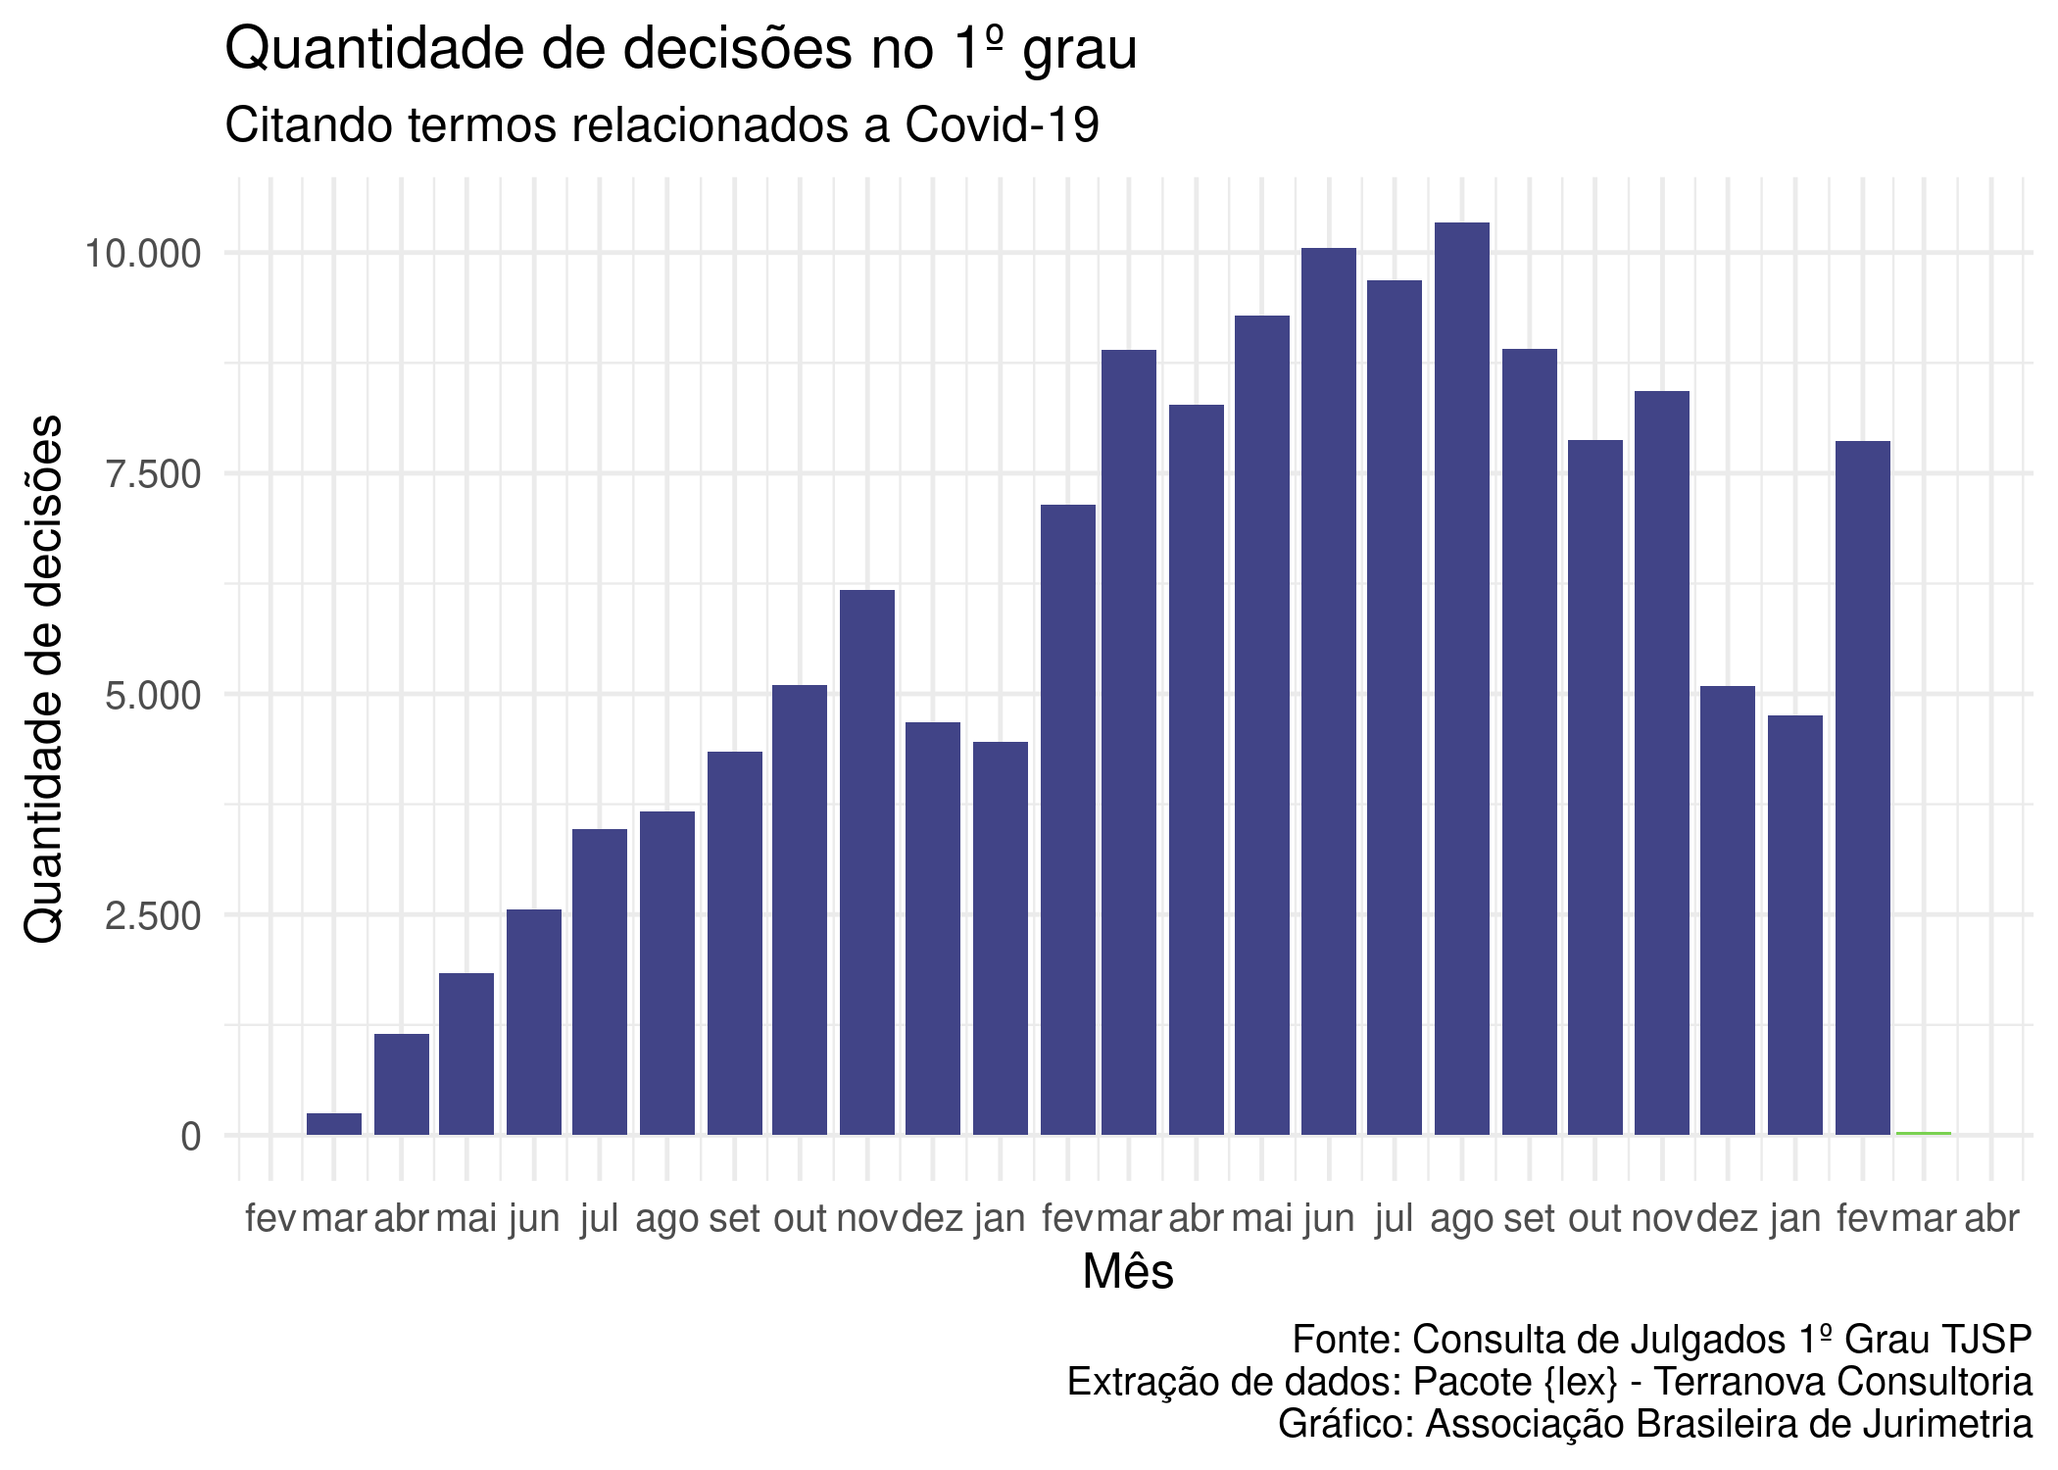
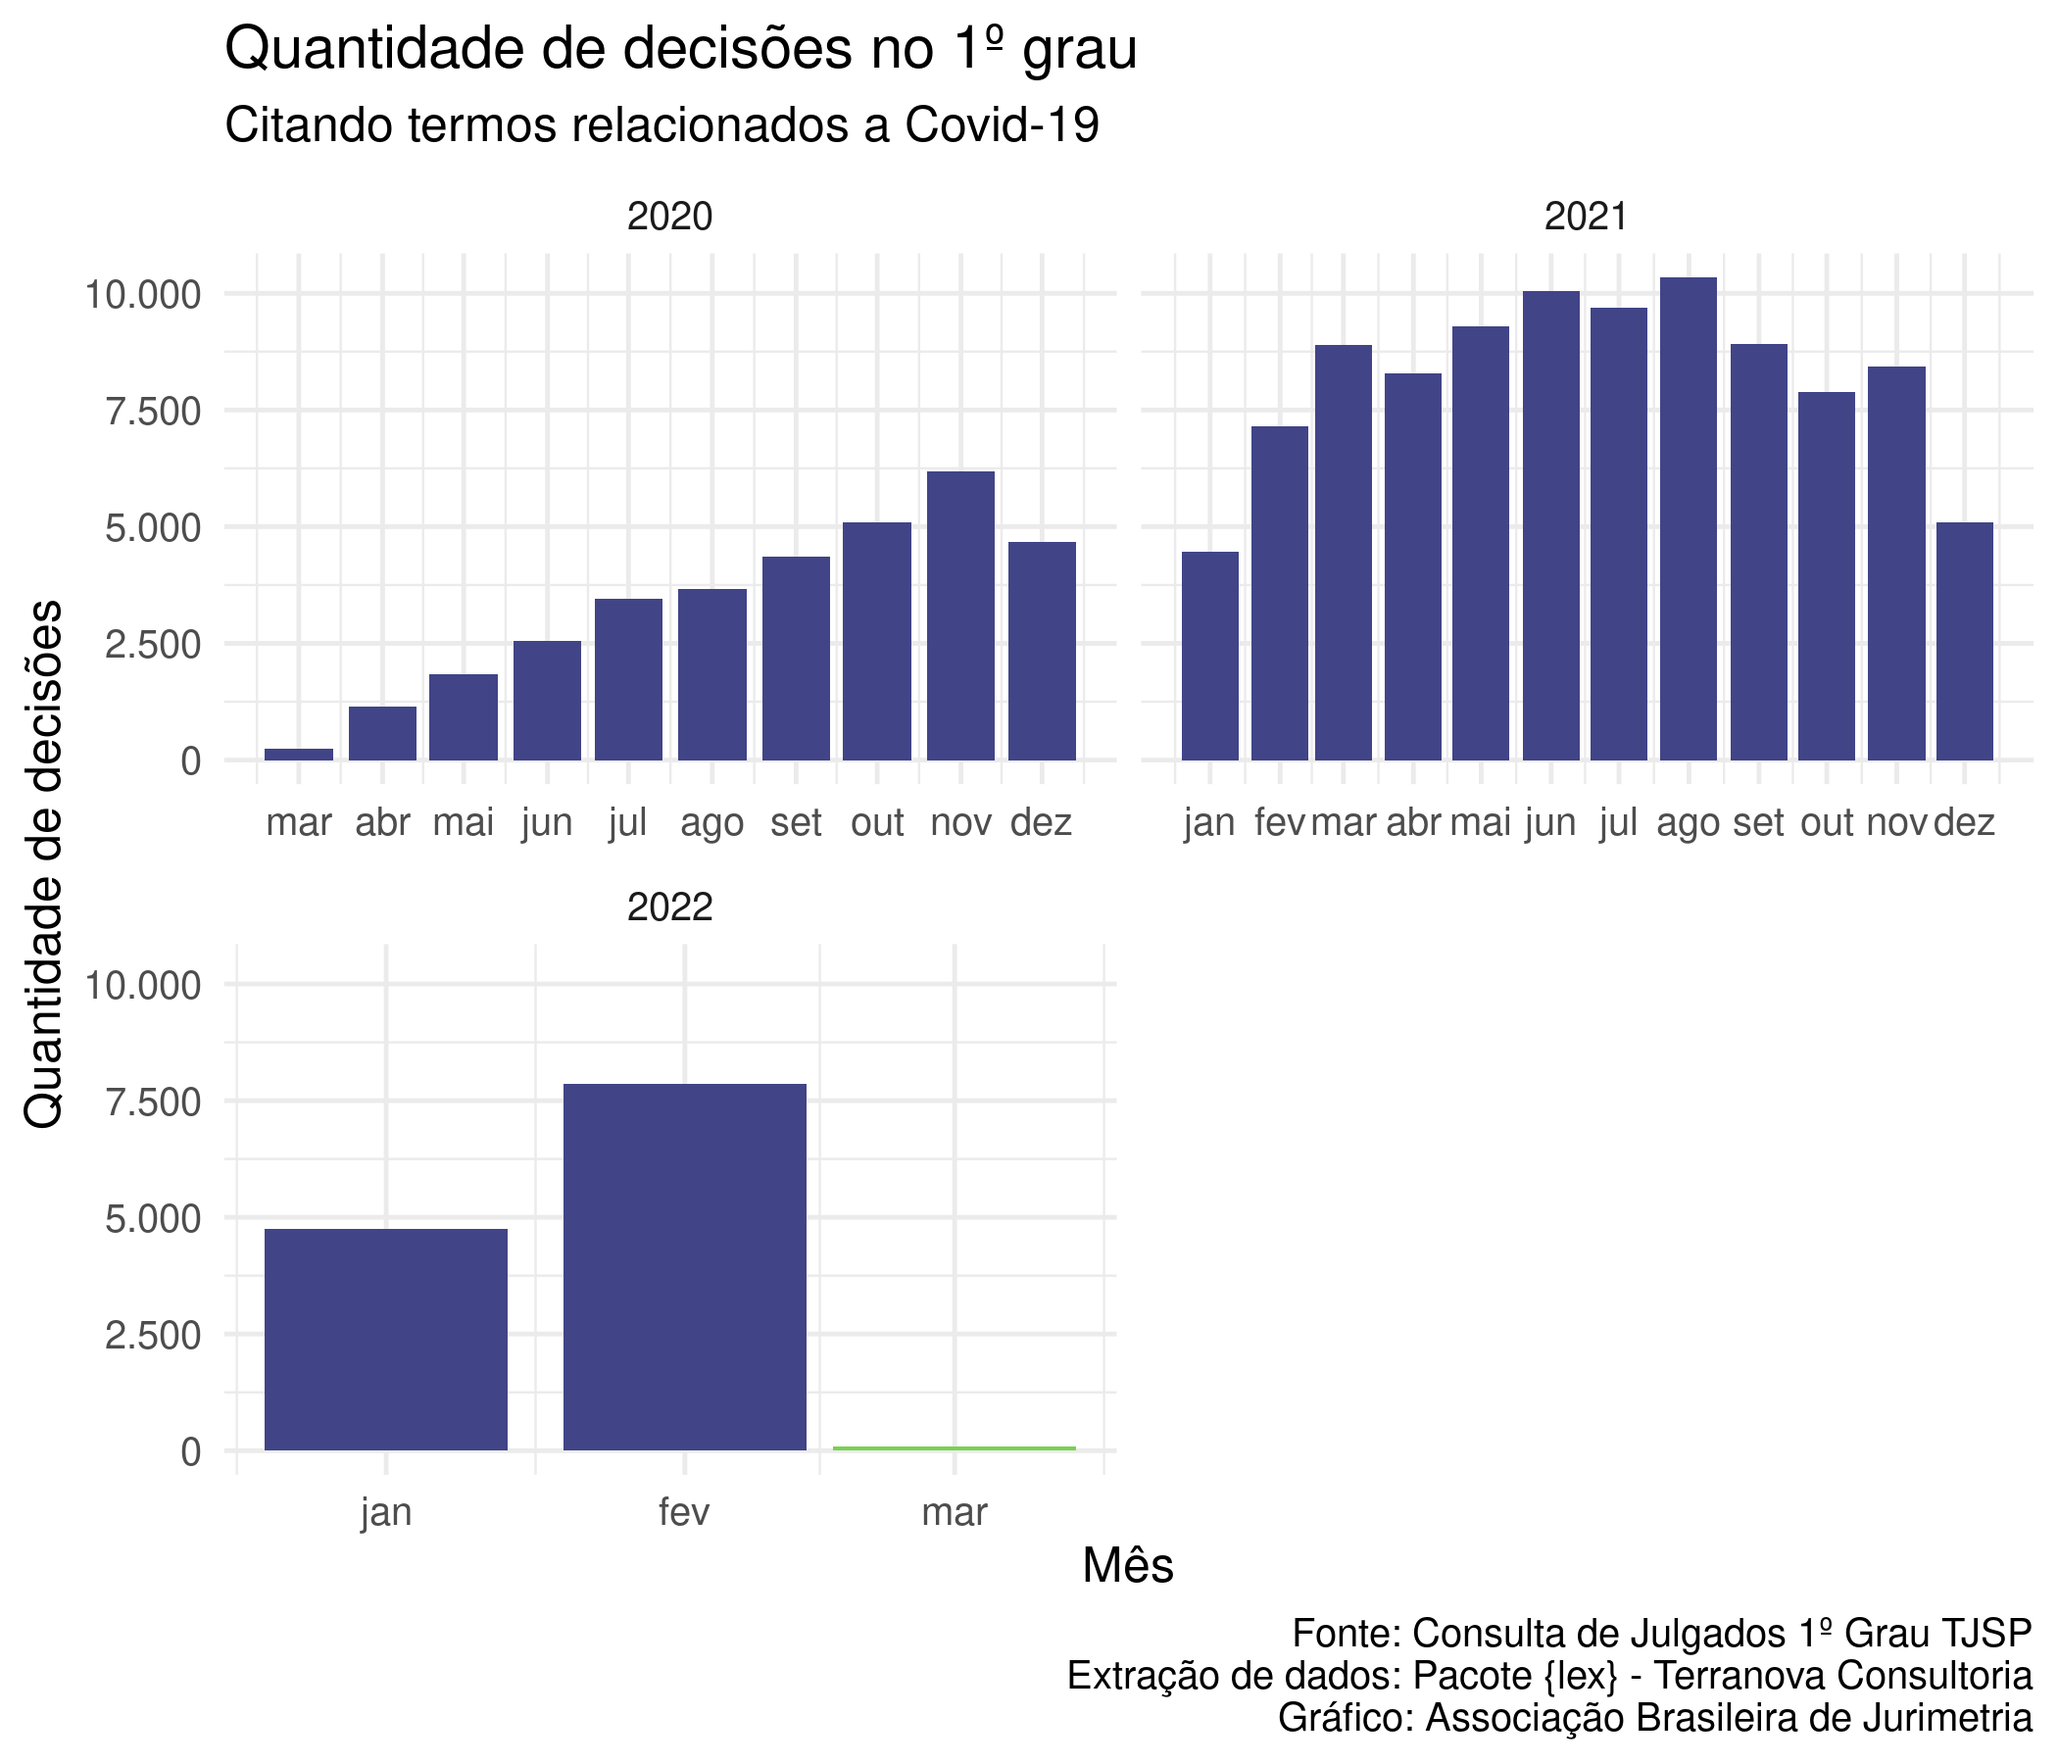
update readme

diff --git a/README.md b/README.md
@@ -20,9 +20,9 @@ library(covidTJSP)
 Os dados podem ser baixados nos links abaixo.
 
 -   [Consulta de Julgados do Primeiro
-    Grau](https://github.com/abjur/covidTJSP/blob/master/inst/extdata/da_cjpg_covid.xlsx?raw=true)
+    Grau](https://storage.googleapis.com/covid-tjsp/da_cjpg_covid.csv)
 -   [Consulta de Processos do Primeiro
-    Grau](https://github.com/abjur/covidTJSP/blob/master/inst/extdata/da_cpopg_covid.xlsx?raw=true)
+    Grau](https://storage.googleapis.com/covid-tjsp/da_cpopg_covid.csv)
 
 ## Exemplo de aplicação
 
@@ -30,9 +30,12 @@ Os dados podem ser baixados nos links abaixo.
 covidTJSP::da_cjpg_covid %>% 
   dplyr::arrange(dplyr::desc(date)) %>% 
   dplyr::distinct(n_processo, .keep_all = TRUE) %>% 
-  dplyr::mutate(mes = lubridate::floor_date(date, "month")) %>% 
-  dplyr::count(mes) %>% 
-  dplyr::arrange(mes) %>% 
+  dplyr::mutate(
+    mes = lubridate::floor_date(date, "month"),
+    ano = as.character(lubridate::year(date))
+  ) %>% 
+  dplyr::count(ano, mes) %>% 
+  dplyr::arrange(ano, mes) %>% 
   dplyr::mutate(acu = cumsum(n)) %>% 
   dplyr::mutate(tipo = dplyr::case_when(
     mes == lubridate::floor_date(Sys.Date(), "month") ~ "incompleto",
@@ -48,7 +51,8 @@ covidTJSP::da_cjpg_covid %>%
     big.mark = ".", decimal.mark = ","
   )) +
   ggplot2::scale_fill_viridis_d(begin = .2, end = .8) +
-  ggplot2::guides(fill = FALSE) +
+  ggplot2::guides(fill = "none") +
+  ggplot2::facet_wrap(~ano, scales = "free_x", ncol = 2) +
   ggplot2::theme_minimal(12) +
   ggplot2::labs(
     title = "Quantidade de decisões no 1º grau",
@@ -62,8 +66,6 @@ covidTJSP::da_cjpg_covid %>%
       sep = "\n"
     )
   )
-#> Warning: `guides(<scale> = FALSE)` is deprecated. Please use `guides(<scale> =
-#> "none")` instead.
 ```
 
 <img src="man/figures/README-simple-plot-1.png" width="100%" />
